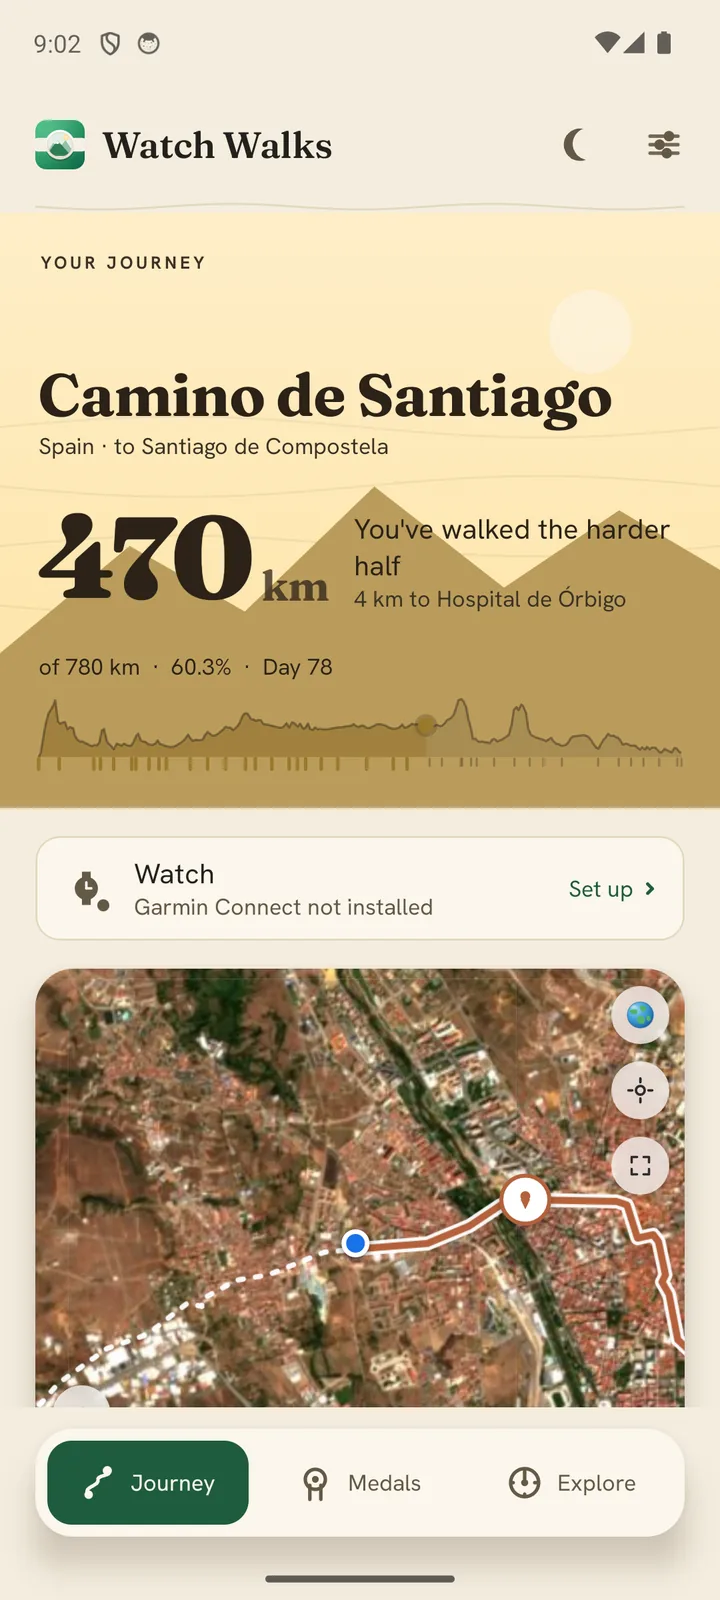
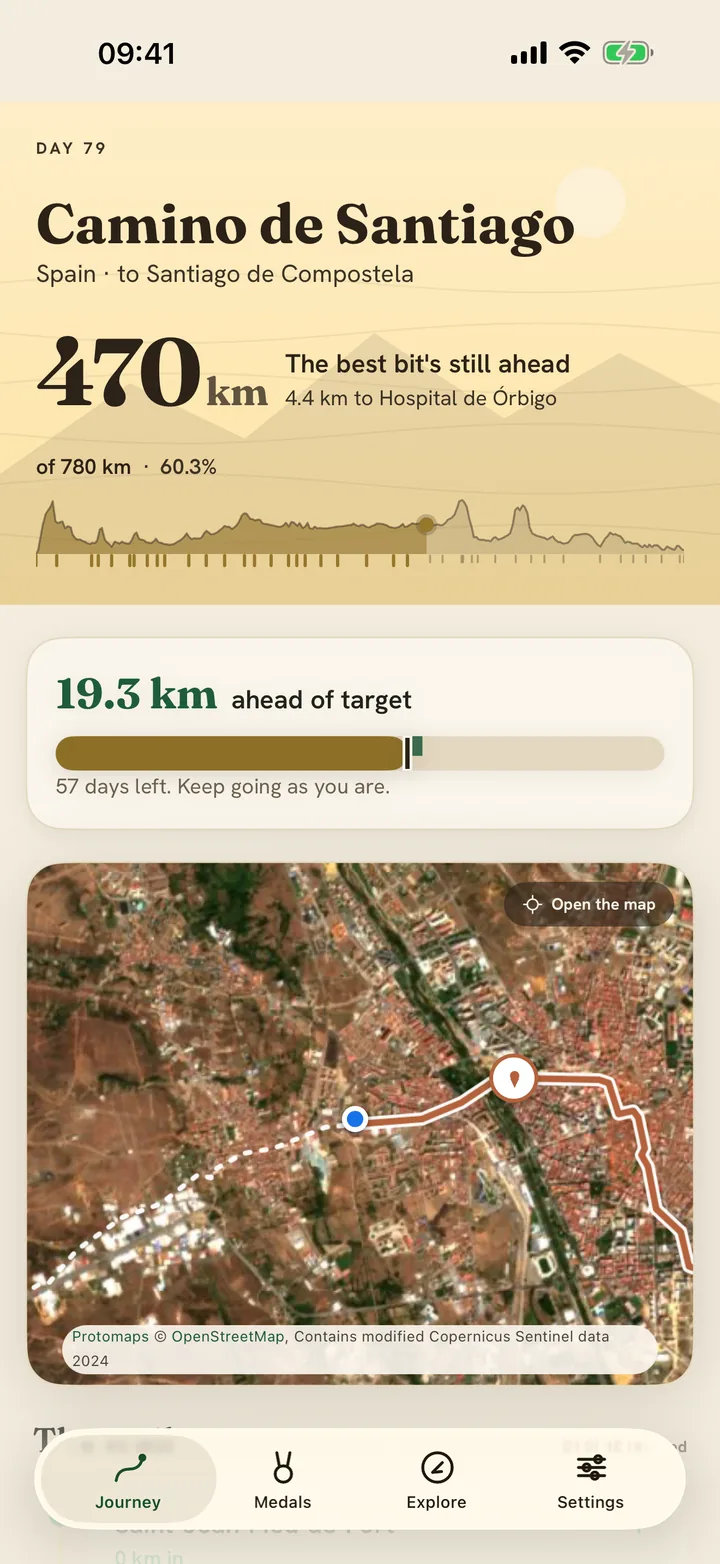
Refresh the app screenshots: the site now shows the app as it is today
The published shots were from 4 July and 19 June, so the site was selling an app
that no longer exists: the old medal wall (all 36 tiles at equal weight), the
low-contrast photo credit, the full-colour emoji globe control.

These are the SAME captures the App Store set is built from (store_frames/src_ios),
converted by _shots_to_web.py. The site and the stores now show one walker, on one
trail, at one pace: the Camino, 470 of 780 km, 60.3%, day 79.

  shot-journey  Camino, day 79, elevation profile, route on satellite  720x1564
  shot-story    Leon cathedral, 447 km in - photo + readable credit    720x1330
  shot-medals   the reworked wall: EARNED medals lead it               720x1564

The words beside each picture were re-read against it, which is the half that has
been wrong before:

  * the story paragraph named Saint-Jean-Pied-de-Port and Roncesvalles; the cards
    on screen are Fromista, Carrion de los Condes and Leon. It names those now.
  * the medals caption said "Five trails finished, 3,537 km walked"; the wall says
    twelve and 3,243. The alt text promised a gold "Walk the Nile" medal that is
    not in the picture at all.
  * the hero alt said day 78.

Intrinsic width/height updated on all three (the iOS captures are 1320x2868, not
the old 1080x2400) so nothing reflows. The story shot is cropped to its card
boundary: iOS draws the status bar clock straight over the "Castrojeriz" card
title, which reads as a rendering bug on a marketing page.

diff --git a/index.html b/index.html
@@ -94,10 +94,12 @@
            mockup, and above all no CSS-drawn bezel. It stands on a .shot-plate — the trail's own gold
            washed into the paper, the contour motif behind it, a warm shadow under it — which is what
            stops a cream capture dissolving into cream paper. Do not "fix" it by putting a border back.
-           The shots are real captures of the real app, seeded on the Camino (470 of 780 km, day 78) and
-           re-shootable in one command: ./_shoot_web.sh   (see _shoot_web.sh's header). -->
+           The shots are real captures of the real app, seeded on the Camino (470 of 780 km, day 79).
+           They are the SAME captures the App Store set is built from (store_frames/src_ios), converted by
+           _shots_to_web.py — the site and the stores show one walker, on one trail, at one pace. Re-shoot
+           the site's own set with ./_shoot_web.sh; either way, LOOK at the .webp before you ship it. -->
       <figure class="shot-plate hero-plate" style="--tc:#FBC647">
-        <img class="shot" src="img/shot-journey.webp" width="720" height="1600" alt="The Watch Walks app on the Camino de Santiago: 470 km of 780 walked, day 78, with the elevation profile of the road ahead and the route drawn across a satellite map" loading="eager" fetchpriority="high">
+        <img class="shot" src="img/shot-journey.webp" width="720" height="1564" alt="The Watch Walks app on the Camino de Santiago: 470 km of 780 walked, day 79, with the elevation profile of the road ahead and the route drawn across a satellite map" loading="eager" fetchpriority="high">
       </figure>
     </div>
   </section>
@@ -146,15 +148,16 @@
       <div class="feature-text">
         <span class="feat-eyebrow">Story cards and real photos</span>
         <h3>Reach a landmark, and its story opens.</h3>
-        <p>Every famous place along the route has a card waiting for you. Walk far enough to reach it and the card opens, with a few warm words about where you are standing and a real photograph of the spot. The pilgrims' gate at Saint-Jean-Pied-de-Port, the pass at Roncesvalles, the Sun Gate above Machu Picchu — you collect a trail one place at a time, and the cards are yours to keep.</p>
+        <p>Every famous place along the route has a card waiting for you. Walk far enough to reach it and the card opens, with a few warm words about where you are standing and a real photograph of the spot. The Romanesque church at Fr&oacute;mista, the medieval streets of Carri&oacute;n de los Condes, the coloured light of Le&oacute;n cathedral — you collect a trail one place at a time, and the cards are yours to keep.</p>
       </div>
       <div class="feature-art">
         <!-- UNFRAMED, and the caption is the frame's job done properly. The picture must never say a
-             different thing from the paragraph beside it: this shot is the Camino, so the paragraph
-             names Camino landmarks — and they are the two cards actually on screen. -->
+             different thing from the paragraph beside it: this shot is the Camino, so the paragraph names
+             Camino landmarks — and it names the three that are ACTUALLY on screen (Frómista and Carrión
+             on the spine, León in the open card). Re-shoot the picture, re-read this sentence. -->
         <figure class="shot-plate captioned" style="--tc:#FBC647">
-          <img class="shot" src="img/shot-story.webp" width="720" height="1600" alt="A story card in the Watch Walks app: Saint-Jean-Pied-de-Port, with a photograph of the river Nive under the old pilgrims' gate and a few lines about where the Camino Frances begins" loading="lazy">
-          <figcaption class="shot-cap">Saint-Jean-Pied-de-Port, where the Camino begins. Twenty-four of its forty-two places reached.</figcaption>
+          <img class="shot" src="img/shot-story.webp" width="720" height="1330" alt="A story card open in the Watch Walks app: León, 447 km along the Camino, with a photograph of its Gothic cathedral, the photographer's credit, and a few lines about the stained glass and the Roman walls" loading="lazy">
+          <figcaption class="shot-cap">Le&oacute;n cathedral, 447 km along the Camino. You walked every one of them.</figcaption>
         </figure>
       </div>
     </div>
@@ -167,11 +170,14 @@
         <p>Build a walking streak, rack up your best day, climb your lifetime distance, and finish trails to earn a unique medal for each one. Small feats celebrate the little wins along the way. There is always a next one just ahead, so an ordinary day out still moves something forward.</p>
       </div>
       <div class="feature-art">
-        <!-- The alt text used to promise "the Camino de Santiago medal earned in gold". The medal that
-             is actually gold in this capture is Walk the Nile. Describe the picture you HAVE. -->
+        <!-- The alt text used to promise "the Camino de Santiago medal earned in gold", and then "the
+             Walk the Nile medal". Describe the picture you HAVE: since the wall was reworked the EARNED
+             medals lead it, so the tiles at the top are the ones this walker has actually conquered, each
+             carrying the prestige it was struck with (Trailhead, Wayfarer — a locked medal reads "Finish
+             to earn" instead). Name what is on screen, and re-check it every time the shot is re-taken. -->
         <figure class="shot-plate captioned" style="--tc:#E0A52E">
-          <img class="shot" src="img/shot-medals.webp" width="720" height="1600" alt="The Watch Walks medal wall: a grid of die-cut trail medals on ribbons, the Walk the Nile medal struck in gold and conquered, the rest still waiting to be earned" loading="lazy">
-          <figcaption class="shot-cap">Five trails finished, 3,537 km walked. Every trail has a medal of its own.</figcaption>
+          <img class="shot" src="img/shot-medals.webp" width="720" height="1564" alt="The Watch Walks medal wall: the earned medals lead it, die-cut on ribbons and struck in bronze, silver and gold — the Annapurna Circuit, the GR20, the John Muir Trail and the Larapinta Trail — each with the prestige the walker earned on it" loading="lazy">
+          <figcaption class="shot-cap">Twelve trails finished, 3,243 km walked. Every trail has a medal of its own.</figcaption>
         </figure>
       </div>
     </div>
